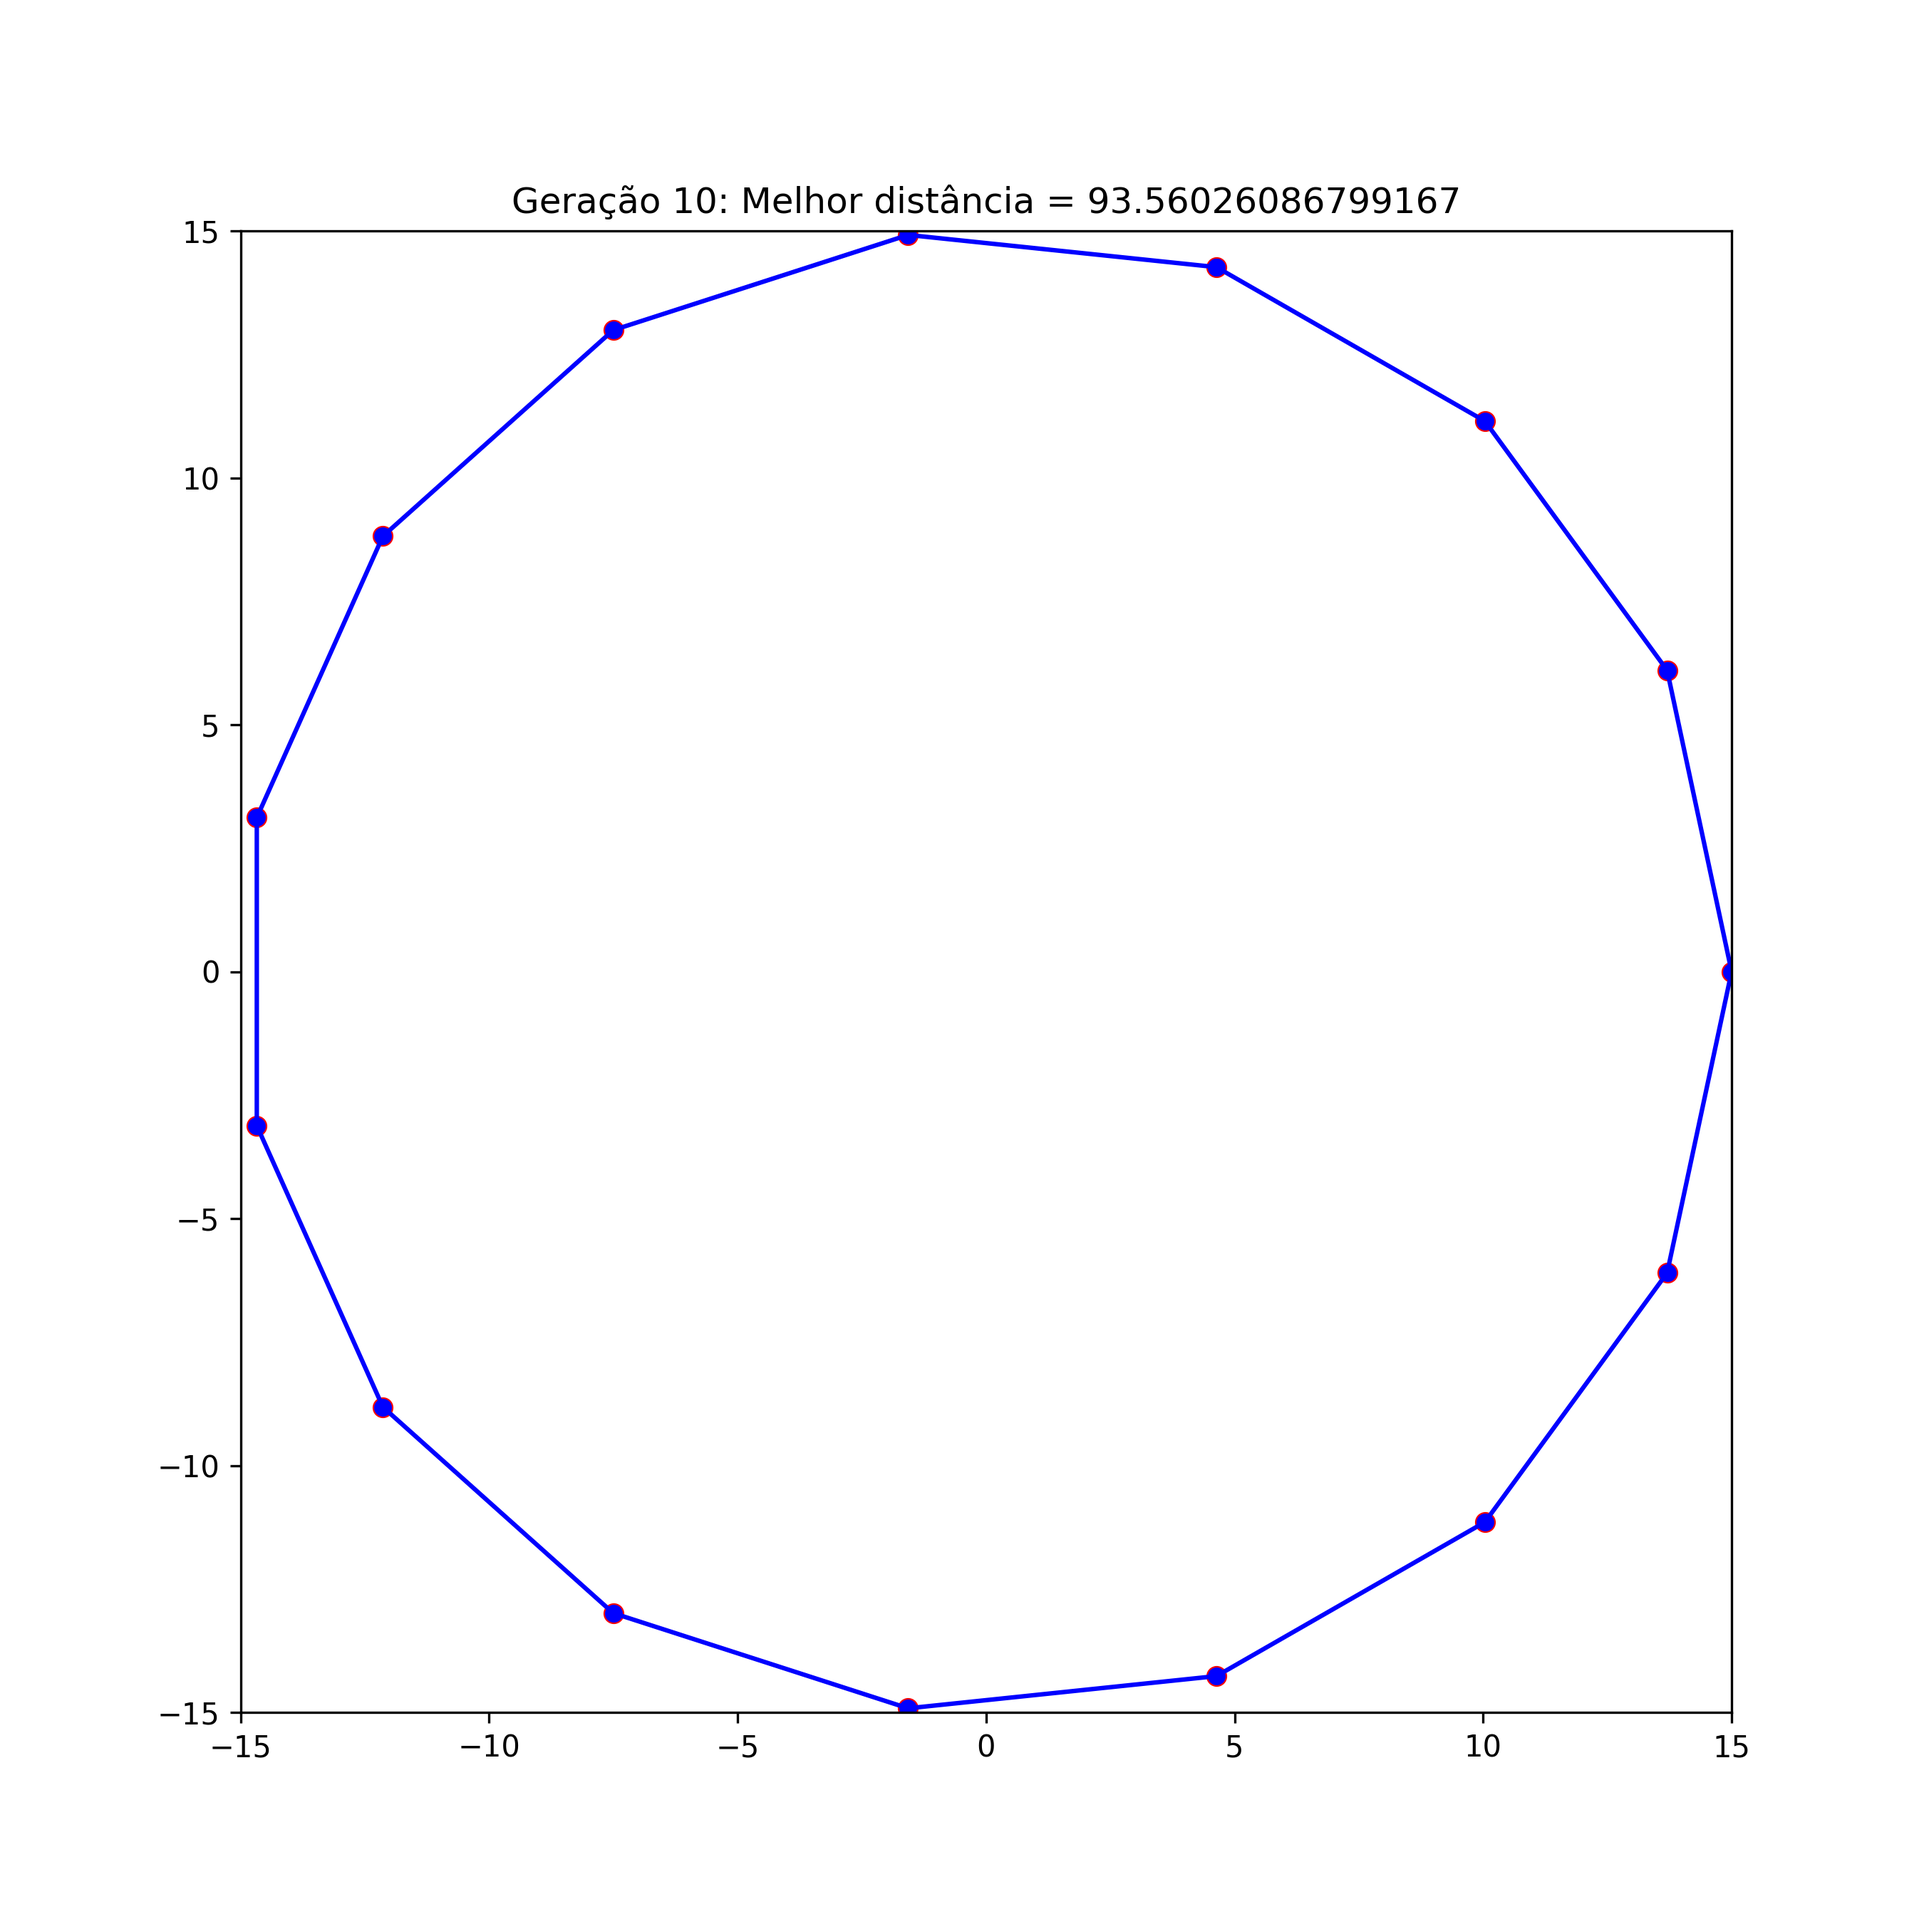
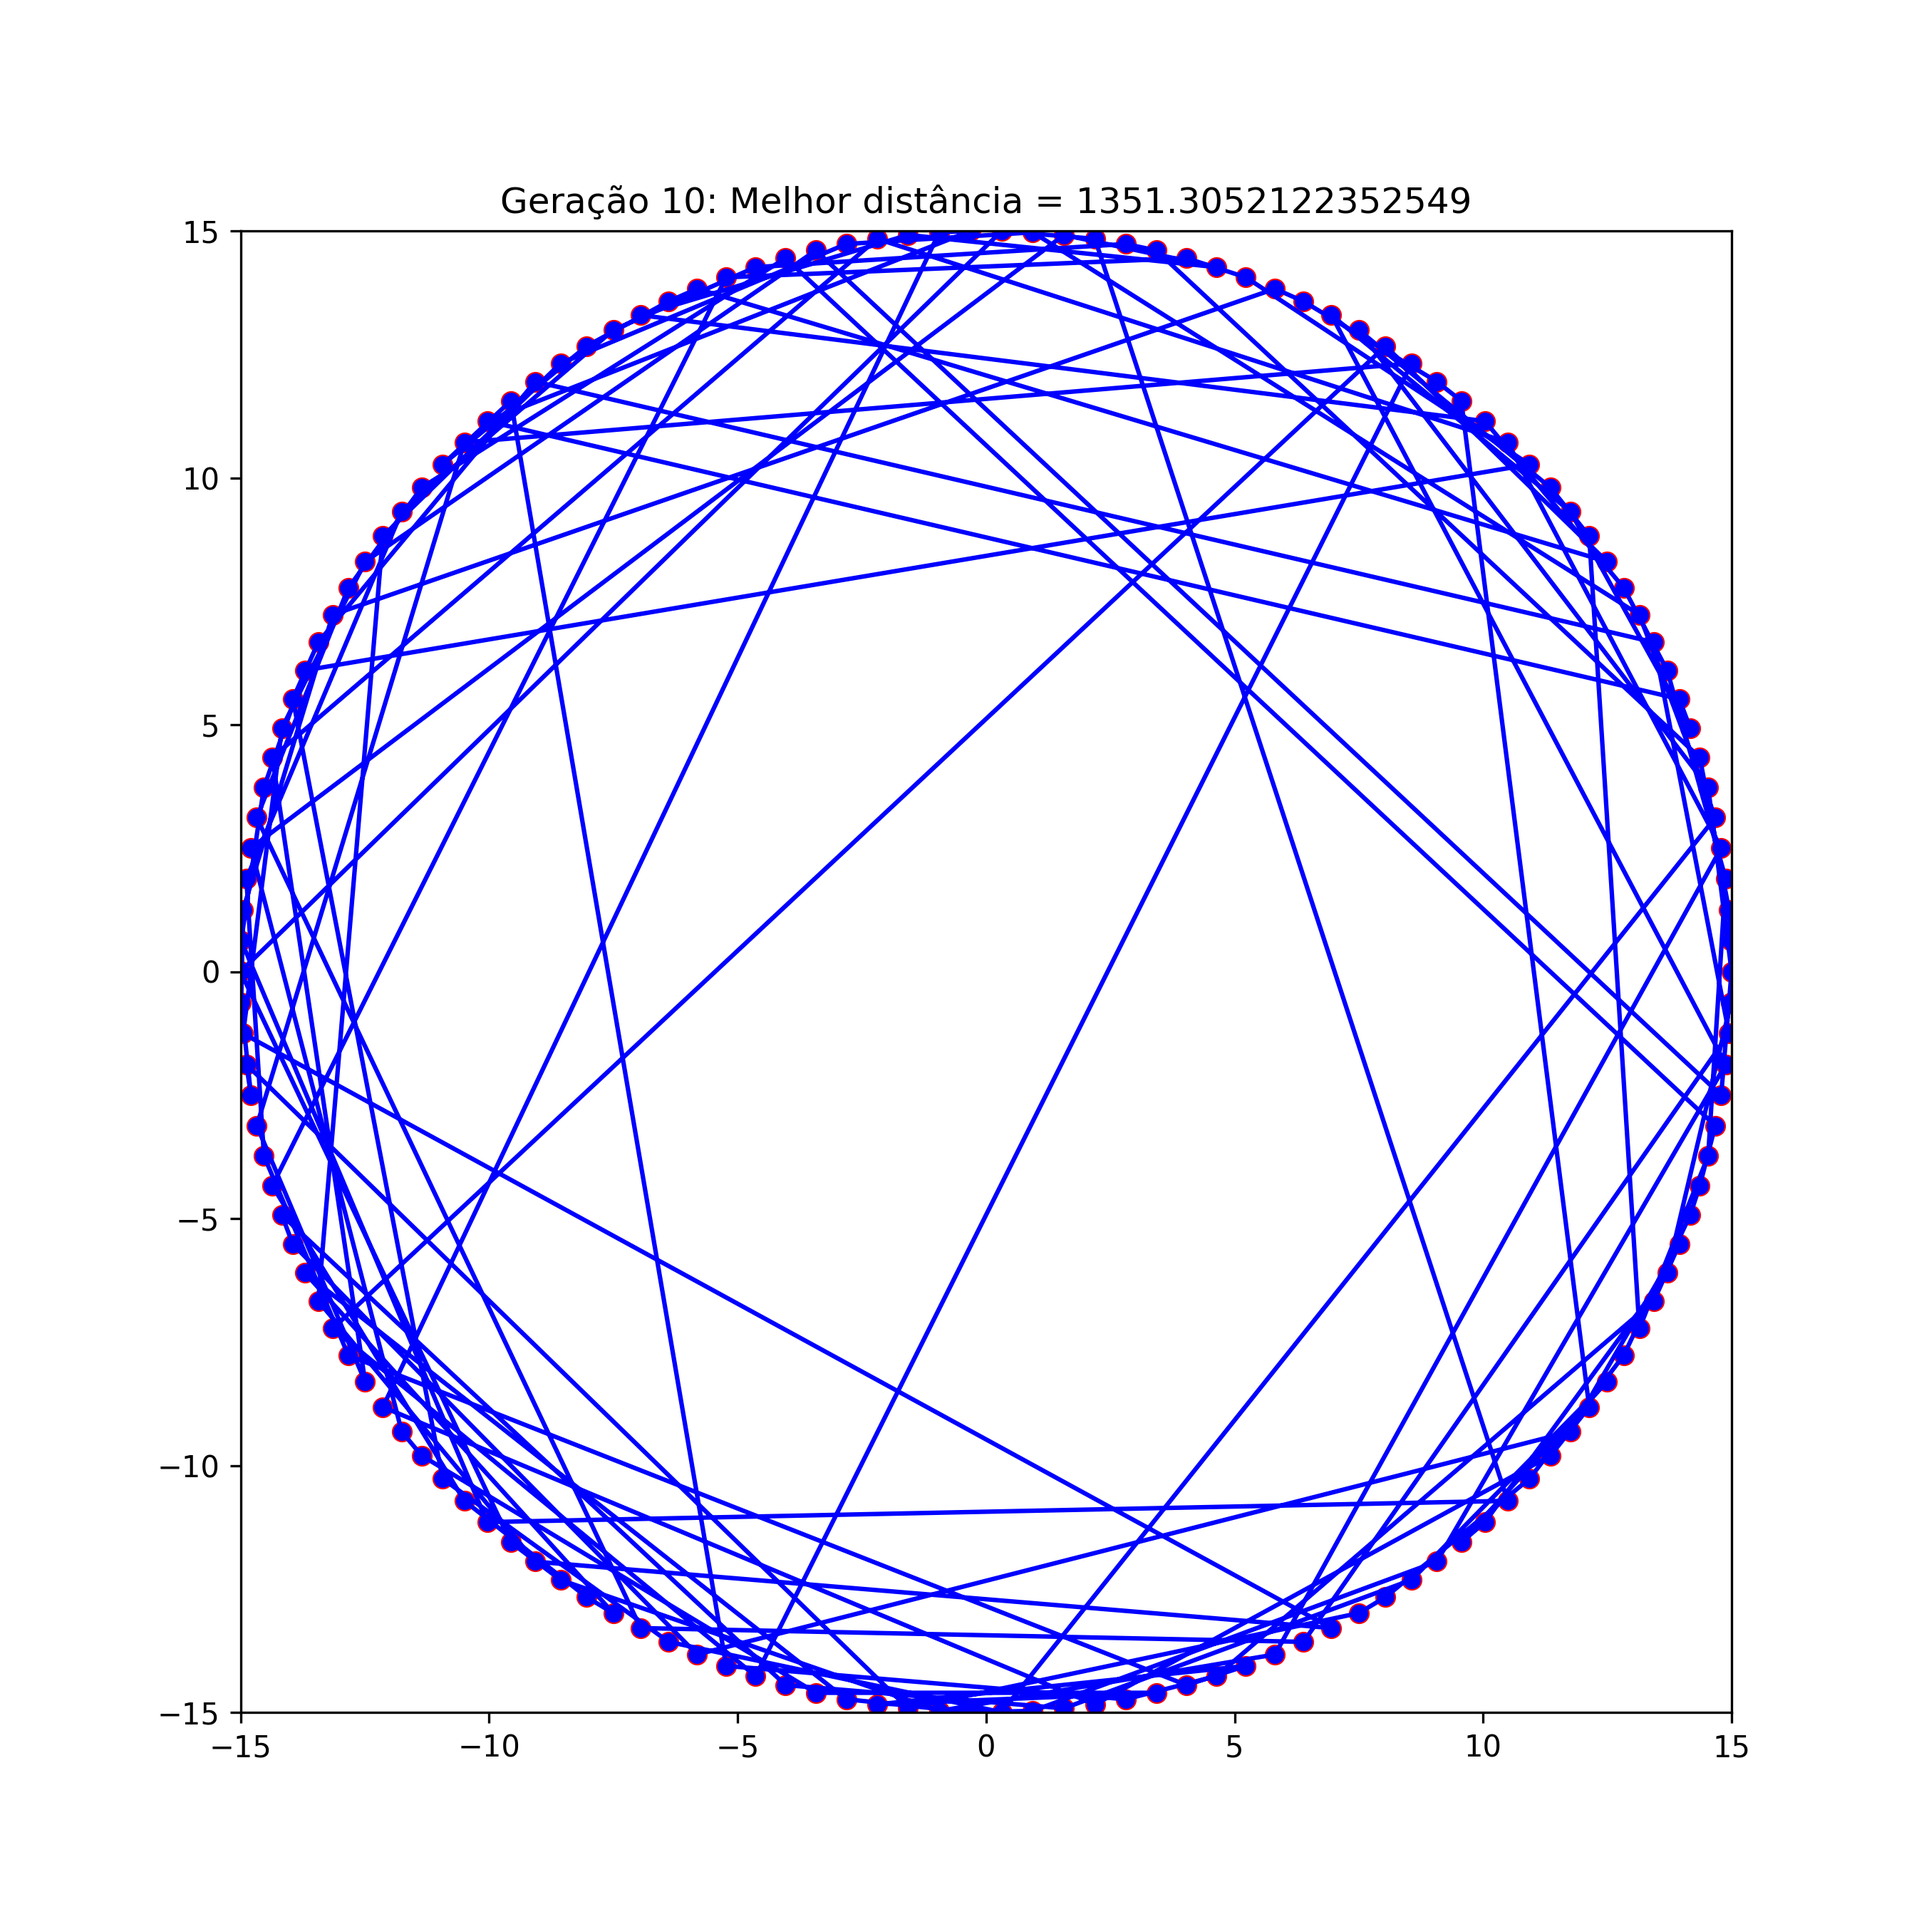
images

diff --git a/TSP_GENETICO.py b/TSP_GENETICO.py
@@ -136,7 +136,7 @@ def elitismo(populacao, aptidoes, taxa_mutacao, pontos, elite=True):
 
     return nova_populacao
 
-def algoritmo_genetico(pontos, teste, tamanho_populacao=100, num_geracoes=50, taxa_mutacao=0.08, elite=True):
+def algoritmo_genetico(pontos, teste, tamanho_populacao=200, num_geracoes=200, taxa_mutacao=0.16, elite=True):
     """
     Algoritmo Genético para resolver o Problema do Caixeiro Viajante.
     """
@@ -181,13 +181,13 @@ def algoritmo_genetico(pontos, teste, tamanho_populacao=100, num_geracoes=50, ta
 # -------------- MAIN --------------
 
 # Teste Pontos Uniformes - 15 pontos
-pontos_uniformes = criar_pontos_uniformes(15)
+pontos_uniformes = criar_pontos_uniformes(150)
 plotar_rota(pontos_uniformes, criar_rota_aleatoria(pontos_uniformes), "Pontos Uniformes Aleatórios")
 melhor_rota, historico = algoritmo_genetico(pontos_uniformes,"Pontos Uniformes ")
 plotar_rota(pontos_uniformes, melhor_rota, "Rota Uniforme Otimizida")
 
 ## Teste Pontos Circulares - 15 pontos
-pontos_circulares = criar_pontos_circulares(15)
+pontos_circulares = criar_pontos_circulares(150)
 plotar_rota(pontos_circulares, criar_rota_aleatoria(pontos_circulares), "Pontos Circulares Aleatórios")
 melhor_rota, historico = algoritmo_genetico(pontos_circulares,"Pontos Circulares")
 plotar_rota(pontos_circulares, melhor_rota, "Rota Circular otimizada")
